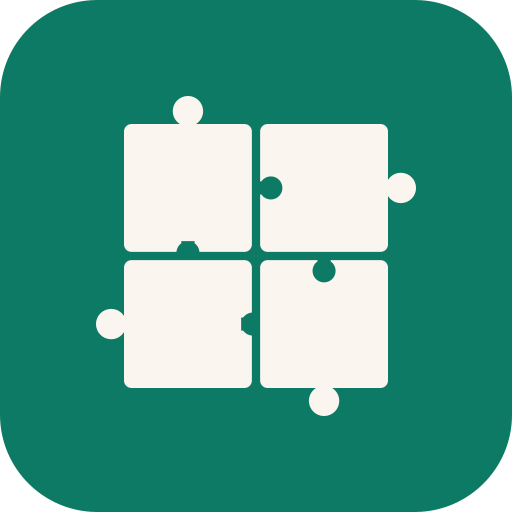
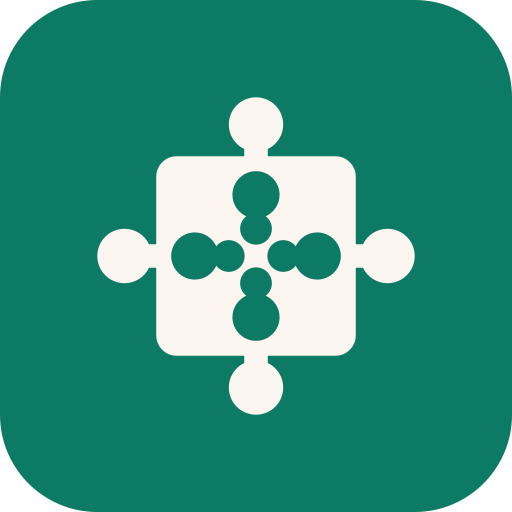
The mark finalised: the four-armed piece with its four cuts
The owner's design, restored exactly: the four-armed piece unchanged, and
four cut-shaped blanks punched into the middle of the square, one beneath
each arm (mouth toward the centre, head deeper in), spaced clear of the
knob necks. Probes verify all four heads, all four cuts and the body
through the piece transform; checkIcons pins the regenerated set. The
pinwheel version is superseded.

Changed region(s): [[0.1875, 0.1875, 0.8125, 0.8125]]

diff --git a/tools/src/main/kotlin/io/github/muntasimulhaque/puzzlet/tools/MakeIcons.kt b/tools/src/main/kotlin/io/github/muntasimulhaque/puzzlet/tools/MakeIcons.kt
@@ -54,101 +54,53 @@ object IconDesign {
 }
 
 /**
- * The friendship square (the owner's design): a 2 x 2 of four jigsaw
- * pieces, joined. Each piece is a real piece, oriented in a pinwheel: its
- * head reaches outward (top, right, bottom, left: the four arms) and its
- * cut opens on the inner seam, so four notches sit in the middle of the
- * square, waiting for the next pieces to snap in. Thin seams show that the
- * square is four pieces; the outer silhouette stays the calm square with
- * four arms. The piece spans 0.962 of the unit box.
+ * The friendship piece (the owner's design): ONE jigsaw piece, its four
+ * arms reaching outward (top, right, bottom, left), and now also its four
+ * cuts punched in the middle of the square: a real piece has a head on one
+ * side and the same cut on the other, so each arm carries its matching cut
+ * beneath it, mouth toward the centre, waiting for the next piece. The
+ * piece spans 0.70 of the unit box, knob tip to knob tip.
  */
 enum class Side { TOP, RIGHT, BOTTOM, LEFT }
 
-internal const val BRAND_SPAN = 0.962
+internal const val BRAND_SPAN = 0.70
 
-private fun addKnob(body: Area, mx: Double, my: Double, side: Side) {
-    when (side) {
-        Side.TOP -> {
-            body.add(Area(Rectangle2D.Double(mx - 0.02, my - 0.055, 0.04, 0.065)))
-            body.add(Area(Ellipse2D.Double(mx - 0.046, my - 0.085, 0.092, 0.092)))
-        }
-        Side.BOTTOM -> {
-            body.add(Area(Rectangle2D.Double(mx - 0.02, my - 0.01, 0.04, 0.065)))
-            body.add(Area(Ellipse2D.Double(mx - 0.046, my - 0.007, 0.092, 0.092)))
-        }
-        Side.LEFT -> {
-            body.add(Area(Rectangle2D.Double(mx - 0.055, my - 0.02, 0.065, 0.04)))
-            body.add(Area(Ellipse2D.Double(mx - 0.085, my - 0.046, 0.092, 0.092)))
-        }
-        Side.RIGHT -> {
-            body.add(Area(Rectangle2D.Double(mx - 0.01, my - 0.02, 0.065, 0.04)))
-            body.add(Area(Ellipse2D.Double(mx - 0.007, my - 0.046, 0.092, 0.092)))
-        }
-    }
-}
-
-private fun addCut(body: Area, mx: Double, my: Double, side: Side) {
-    // The blank: a necked cut opening on the edge and biting inward.
-    when (side) {
-        Side.TOP -> {
-            body.subtract(Area(Rectangle2D.Double(mx - 0.02, my - 0.0275, 0.04, 0.06)))
-            body.subtract(Area(Ellipse2D.Double(mx - 0.035, my - 0.0025, 0.07, 0.07)))
-        }
-        Side.BOTTOM -> {
-            body.subtract(Area(Rectangle2D.Double(mx - 0.02, my - 0.0325, 0.04, 0.06)))
-            body.subtract(Area(Ellipse2D.Double(mx - 0.035, my - 0.0325, 0.07, 0.07)))
-        }
-        Side.LEFT -> {
-            body.subtract(Area(Rectangle2D.Double(mx - 0.0275, my - 0.02, 0.06, 0.04)))
-            body.subtract(Area(Ellipse2D.Double(mx - 0.0025, my - 0.035, 0.07, 0.07)))
-        }
-        Side.RIGHT -> {
-            body.subtract(Area(Rectangle2D.Double(mx - 0.0325, my - 0.02, 0.06, 0.04)))
-            body.subtract(Area(Ellipse2D.Double(mx - 0.0325, my - 0.035, 0.07, 0.07)))
-        }
-    }
-}
-
-/**
- * One joined piece: a quadrant of the square with rounded corners, a knob
- * reaching outward on [knob] and a cut biting inward on [notch].
- */
-fun brandQuadrant(x0: Double, y0: Double, x1: Double, y1: Double, knob: Side, notch: Side): Area {
-    val body = Area(RoundRectangle2D.Double(x0, y0, x1 - x0, y1 - y0, 0.045, 0.045))
-    val knobMid = if (knob == Side.TOP || knob == Side.BOTTOM) (x0 + x1) / 2 else (y0 + y1) / 2
-    val notchMid = if (notch == Side.TOP || notch == Side.BOTTOM) (x0 + x1) / 2 else (y0 + y1) / 2
-    val edge = if (knob == Side.TOP || knob == Side.BOTTOM) (if (knob == Side.TOP) y0 else y1) else (if (knob == Side.LEFT) x0 else x1)
-    when (knob) {
-        Side.TOP -> addKnob(body, knobMid, y0, Side.TOP)
-        Side.BOTTOM -> addKnob(body, knobMid, y1, Side.BOTTOM)
-        Side.LEFT -> addKnob(body, x0, knobMid, Side.LEFT)
-        Side.RIGHT -> addKnob(body, x1, knobMid, Side.RIGHT)
-    }
-    when (notch) {
-        Side.TOP -> addCut(body, notchMid, y0, Side.TOP)
-        Side.BOTTOM -> addCut(body, notchMid, y1, Side.BOTTOM)
-        Side.LEFT -> addCut(body, x0, notchMid, Side.LEFT)
-        Side.RIGHT -> addCut(body, x1, notchMid, Side.RIGHT)
-    }
+fun brandPiece(): Area {
+    val body = Area(RoundRectangle2D.Double(0.28, 0.28, 0.44, 0.44, 0.09, 0.09))
+    // Each knob: a neck crossing the body edge plus a round head beyond it.
+    // Top (bump up), right, bottom, left: the same four arms.
+    body.add(Area(Rectangle2D.Double(0.474, 0.18, 0.052, 0.12)))
+    body.add(Area(Ellipse2D.Double(0.44, 0.15, 0.12, 0.12)))
+    body.add(Area(Rectangle2D.Double(0.70, 0.474, 0.12, 0.052)))
+    body.add(Area(Ellipse2D.Double(0.73, 0.44, 0.12, 0.12)))
+    body.add(Area(Rectangle2D.Double(0.474, 0.70, 0.052, 0.12)))
+    body.add(Area(Ellipse2D.Double(0.44, 0.73, 0.12, 0.12)))
+    body.add(Area(Rectangle2D.Double(0.18, 0.474, 0.12, 0.052)))
+    body.add(Area(Ellipse2D.Double(0.15, 0.44, 0.12, 0.12)))
+    // The four cuts, one beneath each arm: a mouth (small circle) toward
+    // the centre and a head (bigger circle) deeper in, the same shape a
+    // real piece wears on its cut side. Spaced clear of the knob necks.
+    body.subtract(Area(Ellipse2D.Double(0.465, 0.405, 0.07, 0.07)))
+    body.subtract(Area(Ellipse2D.Double(0.448, 0.313, 0.104, 0.104)))
+    body.subtract(Area(Ellipse2D.Double(0.465, 0.525, 0.07, 0.07)))
+    body.subtract(Area(Ellipse2D.Double(0.448, 0.583, 0.104, 0.104)))
+    body.subtract(Area(Ellipse2D.Double(0.405, 0.465, 0.07, 0.07)))
+    body.subtract(Area(Ellipse2D.Double(0.313, 0.448, 0.104, 0.104)))
+    body.subtract(Area(Ellipse2D.Double(0.525, 0.465, 0.07, 0.07)))
+    body.subtract(Area(Ellipse2D.Double(0.583, 0.448, 0.104, 0.104)))
     return body
 }
 
 /**
- * The whole mark, drawn into [g]: four joined pieces in a pinwheel. The
- * piece spans 0.962 of the unit box; [span] is that span on the target.
+ * Draw the piece scaled to [span], centred at (cx, cy), in [argb].
  */
 fun paintBrandPiece(g: Graphics2D, cx: Double, cy: Double, span: Double, argb: Int) {
+    val piece = brandPiece()
     val scale = span / BRAND_SPAN
-    val ox = cx - 0.5 * scale
-    val oy = cy - 0.5 * scale
-    g.transform(AffineTransform(scale, 0.0, 0.0, scale, ox, oy))
+    g.transform(AffineTransform(scale, 0.0, 0.0, scale, cx - 0.5 * scale, cy - 0.5 * scale))
     g.color = Color(argb, true)
-    // Pinwheel: head outward, cut inward, a quarter turn per piece.
-    g.fill(brandQuadrant(0.10, 0.10, 0.4875, 0.4875, Side.TOP, Side.BOTTOM))
-    g.fill(brandQuadrant(0.5125, 0.10, 0.90, 0.4875, Side.RIGHT, Side.LEFT))
-    g.fill(brandQuadrant(0.5125, 0.5125, 0.90, 0.90, Side.BOTTOM, Side.TOP))
-    g.fill(brandQuadrant(0.10, 0.5125, 0.4875, 0.90, Side.LEFT, Side.RIGHT))
-    g.transform(AffineTransform(1.0 / scale, 0.0, 0.0, 1.0 / scale, -ox, -oy))
+    g.fill(piece)
+    g.transform(AffineTransform(1.0 / scale, 0.0, 0.0, 1.0 / scale, -(cx - 0.5 * scale), -(cy - 0.5 * scale)))
 }
 
 /** The legacy tile: teal rounded square, paper piece, for API 24-25 launchers. */

diff --git a/tools/src/test/kotlin/io/github/muntasimulhaque/puzzlet/tools/MakeIconsTest.kt b/tools/src/test/kotlin/io/github/muntasimulhaque/puzzlet/tools/MakeIconsTest.kt
@@ -29,36 +29,35 @@ class MakeIconsTest {
         b.deleteRecursively()
     }
 
+    /**
+     * Map piece-unit coordinates the way paintBrandPiece does: the piece
+     * occupies the centre span of the canvas, never the whole canvas.
+     */
+    private fun mapper(size: Int, spanFraction: Double): (Double, Double) -> Pair<Int, Int> {
+        val scale = size * spanFraction / BRAND_SPAN
+        val ox = size / 2.0 - scale / 2.0
+        return { u: Double, v: Double -> Pair((ox + u * scale).toInt(), (ox + v * scale).toInt()) }
+    }
+
     @Test
-    fun `legacy tile is teal with four joined pieces on it`() {
+    fun `legacy tile is teal with the piece on it`() {
         val icon = legacyIcon(192)
+        val p = mapper(192, IconDesign.LEGACY_SPAN_FRACTION)
         // Outside the rounded corners: fully transparent.
         assertEquals(0, icon.getRGB(8, 8) ushr 24)
-        // Map piece-unit coordinates the way paintBrandPiece does: the piece
-        // occupies the centre span, not the whole canvas.
-        val span = 192 * IconDesign.LEGACY_SPAN_FRACTION
-        val scale = span / BRAND_SPAN
-        val ox = 96.0 - scale / 2.0
-        fun P(u: Double, v: Double): Pair<Int, Int> =
-            Pair((ox + u * scale).toInt(), (ox + v * scale).toInt())
-        // The seam cross in the middle: the tile shows through.
-        val (sx, sy) = P(0.5, 0.5)
-        assertEquals(IconDesign.TEAL, icon.getRGB(sx, sy))
-        // A quadrant body: paper.
-        val (bx, by) = P(0.29375, 0.29375)
+        // The piece body, clear of every cut: paper.
+        val (bx, by) = p(0.5, 0.5)
         assertEquals(IconDesign.PAPER, icon.getRGB(bx, by))
         // A knob head reaching outward: paper.
-        val (kx, ky) = P(0.29375, 0.065)
+        val (kx, ky) = p(0.5, 0.21)
         assertEquals(IconDesign.PAPER, icon.getRGB(kx, ky))
-        // A cut in the middle: the tile shows through the blank.
-        val (cx2, cy2) = P(0.29375, 0.470)
+        // A cut head punched in the middle: the tile shows through.
+        val (cx2, cy2) = p(0.5, 0.365)
         assertEquals(IconDesign.TEAL, icon.getRGB(cx2, cy2))
     }
 
     @Test
-    fun `the four cuts sit in the middle, one per piece, pinwheel-symmetric`() {
-        // Map piece-unit coordinates onto a rendered layer and probe all
-        // four cuts and all four heads: heads paper, cuts tile.
+    fun `four arms reach outward and four cuts sit punched, symmetric`() {
         val size = 432
         val image = BufferedImage(size, size, BufferedImage.TYPE_INT_ARGB)
         val g = image.createGraphics()
@@ -67,46 +66,45 @@ class MakeIconsTest {
         paintBrandPiece(g, size / 2.0, size / 2.0, size * 0.80, IconDesign.PAPER)
         g.dispose()
 
-        val scale = (size * 0.80) / BRAND_SPAN
-        val ox = size / 2.0 - scale / 2.0
-        fun P(u: Double, v: Double): Pair<Int, Int> =
-            Pair((ox + u * scale).toInt(), (ox + v * scale).toInt())
-
-        val cuts = listOf(
-            P(0.29375, 0.470), P(0.530, 0.29375), P(0.70625, 0.530), P(0.470, 0.70625),
-        )
-        for ((x, y) in cuts) {
-            assertEquals("the cut at ($x, $y) is not punched through", IconDesign.TEAL, image.getRGB(x, y))
+        val p = mapper(size, 0.80)
+        // The four knob heads: paper, at their outward positions.
+        for ((u, v) in listOf(
+            0.5 to 0.21, 0.79 to 0.5, 0.5 to 0.79, 0.21 to 0.5,
+        )) {
+            val (x, y) = p(u, v)
+            assertEquals("knob head at ($x, $y) is not paper", IconDesign.PAPER, image.getRGB(x, y))
         }
-        val heads = listOf(
-            P(0.29375, 0.065), P(0.935, 0.29375), P(0.70625, 0.935), P(0.065, 0.70625),
-        )
-        for ((x, y) in heads) {
-            assertEquals("the head at ($x, $y) is not paper", IconDesign.PAPER, image.getRGB(x, y))
+        // The four cut heads: tile teal through the punched blanks.
+        for ((u, v) in listOf(
+            0.5 to 0.365, 0.635 to 0.5, 0.5 to 0.635, 0.365 to 0.5,
+        )) {
+            val (x, y) = p(u, v)
+            assertEquals("cut head at ($x, $y) is not punched", IconDesign.TEAL, image.getRGB(x, y))
         }
-        // Between the cuts, the pieces themselves are still paper.
-        for ((x, y) in listOf(P(0.20, 0.20), P(0.80, 0.80))) {
-            assertEquals(IconDesign.PAPER, image.getRGB(x, y))
+        // The cut mouths (toward the centre): also teal.
+        for ((u, v) in listOf(
+            0.5 to 0.44, 0.56 to 0.5, 0.5 to 0.56, 0.44 to 0.5,
+        )) {
+            val (x, y) = p(u, v)
+            assertEquals("cut mouth at ($x, $y) is not punched", IconDesign.TEAL, image.getRGB(x, y))
         }
+        // Between the cuts, the piece itself is still paper.
+        val (bx, by) = p(0.5, 0.5)
+        assertEquals(IconDesign.PAPER, image.getRGB(bx, by))
     }
 
     @Test
     fun `adaptive layer is transparent canvas with the piece only`() {
         val layer = adaptiveLayer(432, IconDesign.PAPER)
+        val p = mapper(432, IconDesign.ADAPTIVE_SPAN_DP / IconDesign.ADAPTIVE_DP)
         // Far corner: untouched canvas.
         assertEquals(0, layer.getRGB(20, 20) ushr 24)
-        // Map piece-unit coordinates the way paintBrandPiece does.
-        val span = 432 * IconDesign.ADAPTIVE_SPAN_DP / IconDesign.ADAPTIVE_DP
-        val scale = span / BRAND_SPAN
-        val ox = 216.0 - scale / 2.0
-        fun P(u: Double, v: Double): Pair<Int, Int> =
-            Pair((ox + u * scale).toInt(), (ox + v * scale).toInt())
-        // The seam cross: the canvas shows through where four pieces meet.
-        val (sx, sy) = P(0.5, 0.5)
-        assertEquals(0, layer.getRGB(sx, sy) ushr 24)
-        // A quadrant body: paper.
-        val (bx, by) = P(0.29375, 0.29375)
+        // The piece body: paper.
+        val (bx, by) = p(0.5, 0.5)
         assertEquals(IconDesign.PAPER, layer.getRGB(bx, by))
+        // A cut head: punched, the canvas shows through.
+        val (cx2, cy2) = p(0.5, 0.365)
+        assertEquals(0, layer.getRGB(cx2, cy2) ushr 24)
         // The monochrome sibling renders the same geometry in white.
         val mono = adaptiveLayer(432, IconDesign.WHITE)
         assertEquals(IconDesign.WHITE, mono.getRGB(bx, by))

diff --git a/AGENTS.md b/AGENTS.md
@@ -322,7 +322,16 @@ a stale build can never sit there waiting to be uploaded twice.
   surfaced to the owner and accepted as weak for a puzzle game (the
   mid-snap two-piece story remains the fallback if it ever needs
   breaking). One painter, paintBrandPiece, feeds launcher, monochrome,
-  legacy, store icon, feature graphic, and the in-app mark. The geometry
+  legacy, store icon, feature graphic, and the in-app mark.
+- D-035 (2026-09-05): The mark FINALISED after two misreadings by the
+  agent (a circle-holes version, then a 2x2 pinwheel that changed the icon
+  the owner said to keep). The final form: the four-armed piece stays
+  exactly as it was, and each arm carries its matching cut punched in the
+  middle of the square, mouth toward the centre, head deeper in: a real
+  piece has a head on one side and the same cut on the other, so the icon
+  now shows four heads and four cuts. Probes verify all of it. Lesson
+  recorded: when the owner says keep the icon and add something, the icon
+  stays; only the something is added. The geometry
   is verified by pixel probes in MakeIconsTest (heads, cuts, seams,
   bodies), after two rounds of probe bugs taught the same lesson twice:
   ALWAYS map piece-unit coordinates through the piece's span and offset
